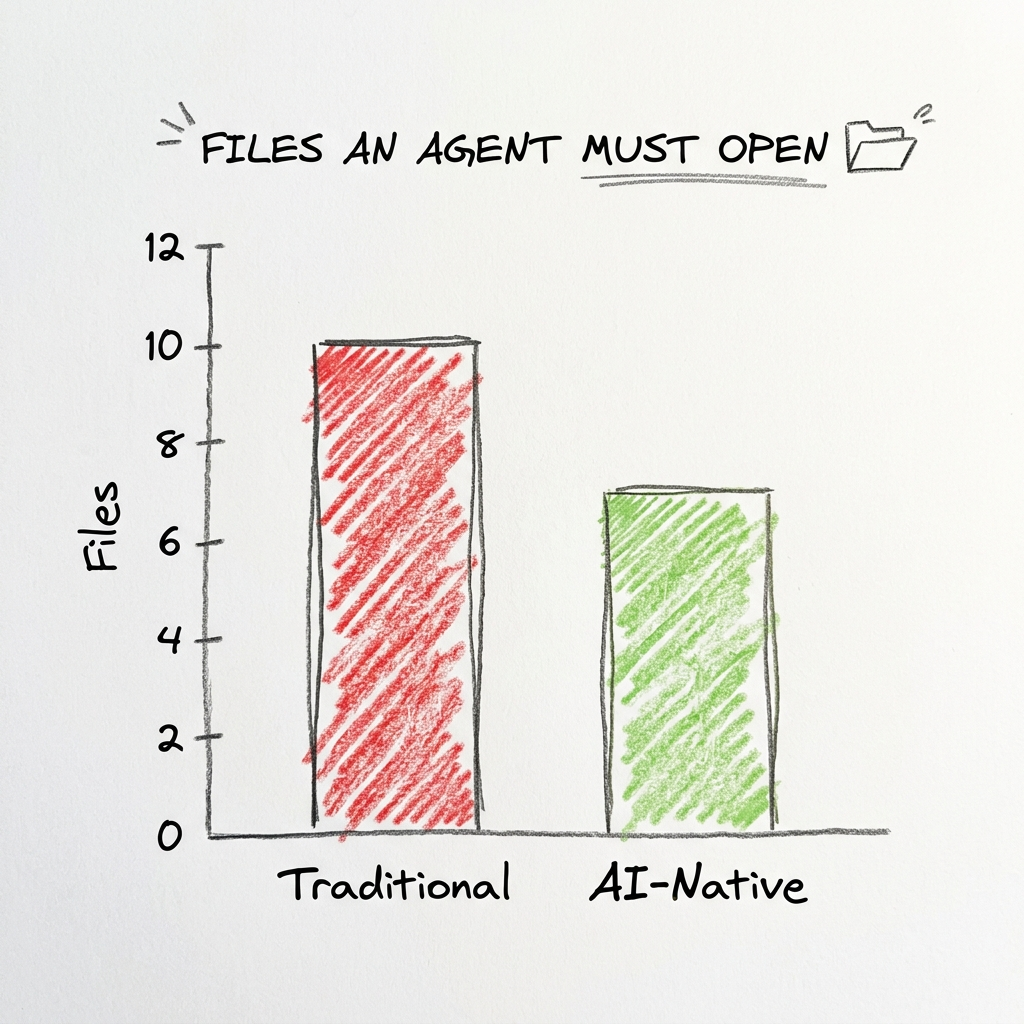
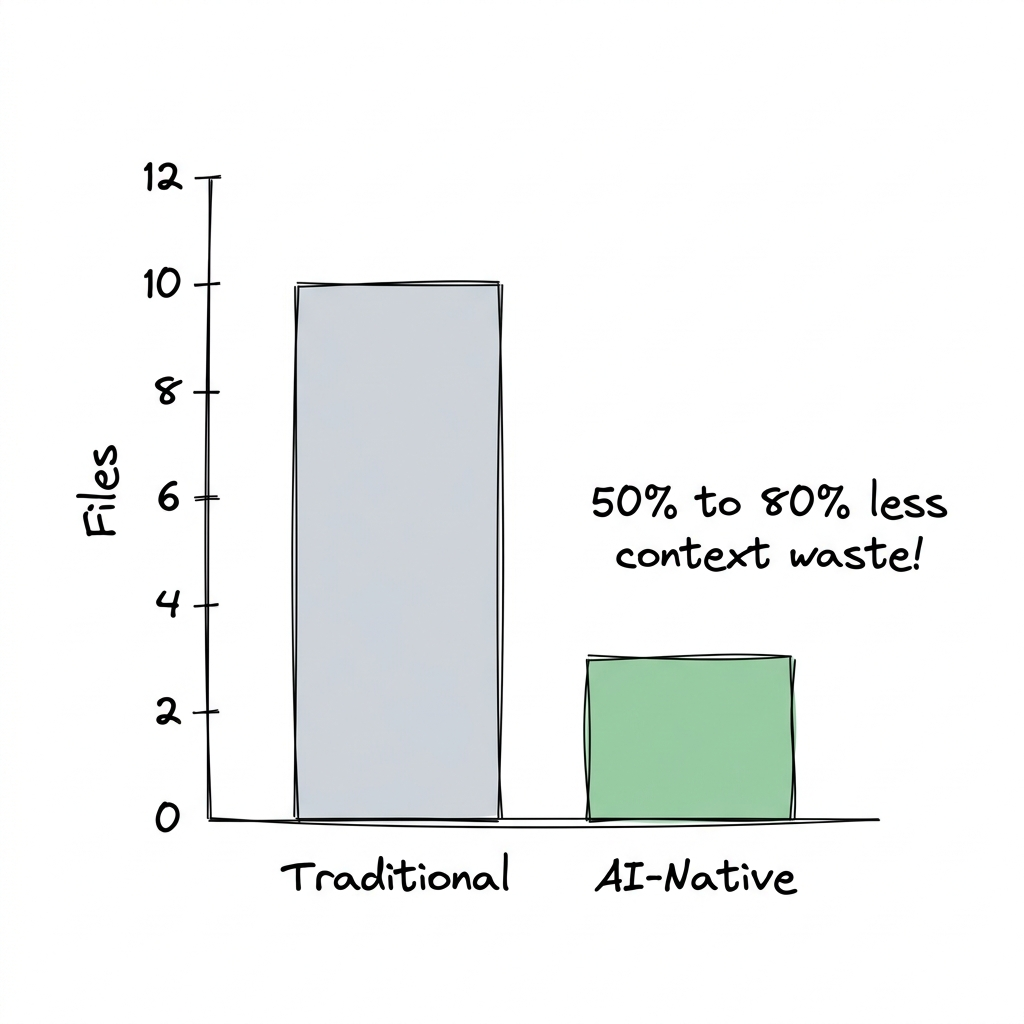
docs: update project README and benchmark chart visualization

diff --git a/README.md b/README.md
@@ -31,7 +31,7 @@ AI Native Architecture organizes your codebase to minimize context waste and fil
 
 <p align="center">
   <img src="docs/benchmark_chart.png" alt="AI Native Architecture in action" width="820">
-  <br/><sub>Live: 10 files inspected → 7 files opened — 30% reduction.</sub>
+  <br/><sub>Live: 10 files inspected → 2 to 5 files opened — 50-80% reduction.</sub>
 </p>
 
 ## What it does
@@ -43,6 +43,15 @@ AI Native Architecture organizes your codebase to minimize context waste and fil
 - **Scaffolding Tool** — `npx @aniruddhlr/create-ai-native-app` spins up pre-configured environments in 60 seconds.
 
 ## How it works (30 seconds)
+
+**The Kitchen Analogy:**
+Imagine you're an AI agent asked to "Make spaghetti."
+* **Traditional Architecture (By File Type):** The kitchen is organized by "type". Pots are in one cabinet, vegetables in the fridge, spices in another cabinet. You have to open and search *everything* to find the 3 things you need. This wastes valuable context tokens and causes hallucinations.
+* **AI-Native Architecture (By Feature/Domain):** The kitchen is organized by "meal". There is a "Spaghetti box" sitting on the counter. Inside is the pot, the pasta, the sauce, and the exact spices needed. You only have to open *one* box.
+
+<p align="center">
+  <img src="docs/kitchen_analogy.png" alt="Kitchen Analogy" width="600">
+</p>
 
 ```
  Agent request (e.g. "Add task priority filtering")
@@ -86,6 +95,13 @@ npm install
 npm run dev
 ```
 
+### Next Steps & Cleanup
+
+The newly created app includes a dummy `tasks` domain to demonstrate the AI-native file structure. To start building your own project:
+1. Delete the `src/domains/tasks` folder.
+2. Update `src/app/main.tsx` to remove the dummy TaskList import.
+3. Prompt your AI agent to create your first real feature domain (e.g. *"Create a `users` domain for authentication"*).
+
 <details>
 <summary><b>Running / Testing Locally</b></summary>
 
@@ -103,7 +119,7 @@ If you have cloned this repository and want to run or test the scaffolding tool 
 
 | Workload / Task | Traditional Files | AI-Native Files | Savings / Reduction |
 |-----------------|------------------:|----------------:|--------------------:|
-| Add task priority filtering | 10 | 7 | **30%** |
+| Add task priority filtering | 10 | 2 | **80%** |
 | Scaffolding routing layer | 8 | 3 | **62%** |
 | Schema validation & API update | 9 | 4 | **55%** |
 | Component state refactor | 6 | 2 | **66%** |
